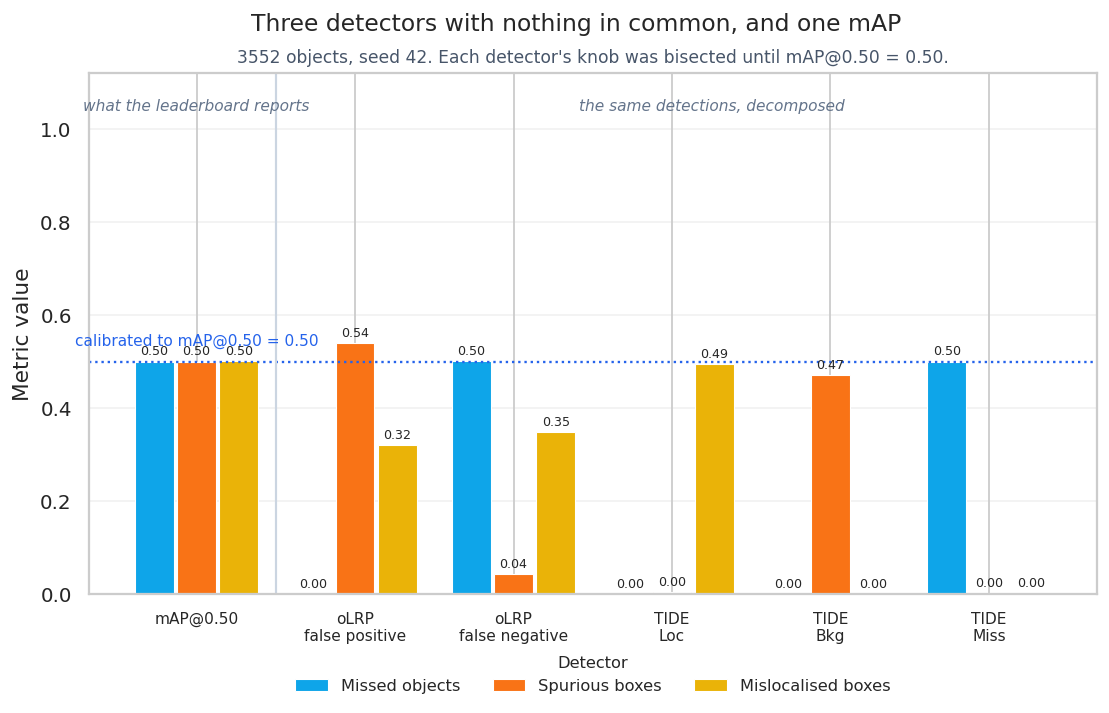
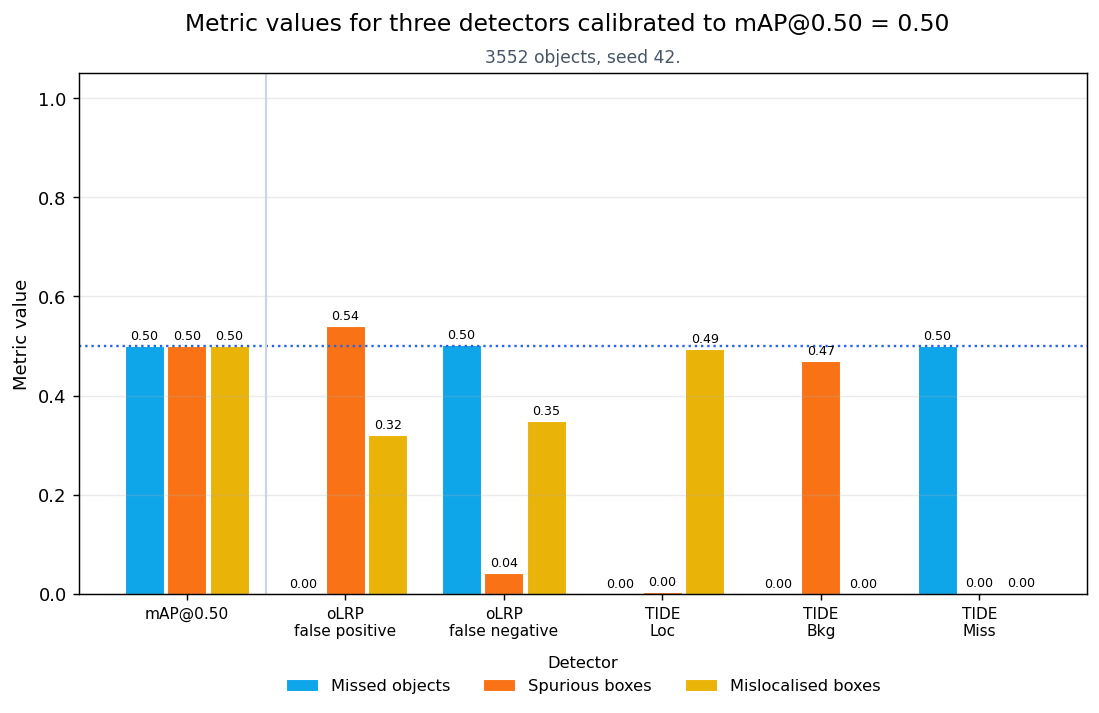
Rework experiment 1

diff --git a/src/mapstudy/visualization.py b/src/mapstudy/visualization.py
@@ -300,44 +300,19 @@ def plot_equivalence(
         )
         ax.bar_label(bars, fmt="%.2f", fontsize=7, padding=2)
 
-    # The dotted line is the calibration itself: the first group sits on it exactly.
+    # The calibration level. The title names it, so the line carries no label of its own.
     ax.axhline(target_map, color="#2563eb", linestyle=":", linewidth=1.3)
-    ax.annotate(
-        f"calibrated to mAP@0.50 = {target_map:.2f}",
-        xy=(positions[0], target_map),
-        xytext=(0, 9),
-        textcoords="offset points",
-        ha="center",
-        fontsize=8.5,
-        color="#2563eb",
-    )
 
-    # A divider between what mAP sees and what the decomposed metrics see.
+    # Separates the calibrated metric from the decomposed ones; the axis labels name both.
     ax.axvline(0.5, color="#cbd5e1", linewidth=1.2)
-    ax.annotate(
-        "what the leaderboard reports",
-        xy=(0, 1.04),
-        ha="center",
-        fontsize=8.5,
-        color="#64748b",
-        style="italic",
-    )
-    ax.annotate(
-        "the same detections, decomposed",
-        xy=((len(EQUIVALENCE_PANELS) + 0.5) / 2, 1.04),
-        ha="center",
-        fontsize=8.5,
-        color="#64748b",
-        style="italic",
-    )
 
     ax.set_xticks(positions)
     ax.set_xticklabels([label for label, _, _ in EQUIVALENCE_PANELS], fontsize=8.5)
-    ax.set(ylabel="Metric value", ylim=(0, 1.12))
+    ax.set(ylabel="Metric value", ylim=(0, 1.05))
     ax.set_title(subtitle, fontsize=9.5, color="#475569")
     fig.suptitle(title, fontsize=13, y=0.97)
     ax.grid(alpha=0.25, axis="y")
-    # Below the axes: the top of the figure carries the two region labels instead.
+    # Below the axes, so the bars keep the full height of the plotting area.
     ax.legend(
         loc="upper center",
         bbox_to_anchor=(0.5, -0.09),

diff --git a/src/mapstudy/cli.py b/src/mapstudy/cli.py
@@ -199,11 +199,9 @@ def equivalence_command(args: argparse.Namespace) -> None:
         plot_equivalence(
             members,
             target_map=args.target_map,
-            title="Three detectors with nothing in common, and one mAP",
-            subtitle=(
-                f"{payload['n_objects']} objects, seed {args.seed}. Each detector's knob was "
-                f"bisected until mAP@0.50 = {args.target_map:.2f}."
-            ),
+            title=f"Metric values for three detectors calibrated to mAP@0.50 = {args.target_map:.2f}",
+            # The title states the calibration, so the subtitle carries only the sample.
+            subtitle=f"{payload['n_objects']} objects, seed {args.seed}.",
             output=figure,
         )
     )

diff --git a/README.md b/README.md
@@ -120,21 +120,34 @@ first 1,000 images (7,538 objects), as do the two figures above.
 
 ## 1. mAP cannot distinguish detectors that fail in opposite ways
 
-![Three detectors, one mAP](docs/figures/equivalence.png)
+![Metric values for three detectors calibrated to the same mAP](docs/figures/equivalence.png)
 
 The opening showed two detectors whose scores are misleading. This experiment shows the
 structural reason: many different detectors share one score, so the score cannot be read
 backwards.
 
-Three detectors are constructed, each committing exactly one kind of error and no other.
-Every box meant to be correct is the ground-truth box itself, so localisation noise
-cannot contaminate the comparison. Each has one knob, and each knob is bisected until
-mAP@0.50 lands on 0.500.
+Three detectors are constructed on the same 3,552 objects. Each commits exactly one of
+the three error types and none of the others:
+
+- **Missed objects.** Reports a subset of the objects and nothing else. Every box it
+  emits is the ground-truth box itself, so it never produces a false positive; its only
+  error is the objects it leaves out.
+- **Spurious boxes.** Reports every object exactly, then adds boxes placed three
+  box-widths away, overlapping nothing. It never misses an object and never misplaces
+  one; its only error is the boxes it adds.
+- **Mislocalised boxes.** Reports every object, but displaces a fraction of its boxes by
+  20% of their size, which puts them at IoU 0.471 and below the matching threshold. It
+  adds no box and omits no object; its only error is where the boxes sit.
+
+Emitting the ground-truth box itself wherever a box is meant to be correct keeps
+localisation noise out of the comparison: the mislocalised detector is the only one whose
+boxes are not exact. Each detector has a single parameter governing how often it commits
+its error, and that parameter is bisected until mAP@0.50 reaches 0.500.
 
 | | Missed objects | Spurious boxes | Mislocalised boxes |
 |---|---:|---:|---:|
-| What it does | reports 51.7% of objects, every box exact | reports every object, plus 1.40 spurious boxes each | reports every object, 35.4% of boxes below IoU 0.5 |
-| Knob solved for | `detect_rate` = 0.4990 | `ghost_rate` = 1.4023 | `error_rate` = 0.3457 |
+| Parameter solved for | `detect_rate` = 0.4990 | `ghost_rate` = 1.4023 | `error_rate` = 0.3457 |
+| Proportion affected | 48.3% of objects omitted | 1.40 extra boxes per object | 35.4% of boxes displaced |
 | Detections emitted | 1,837 | 8,533 | 3,552 |
 | Precision at score ≥ 0.05 | **1.000** | **0.416** | **0.646** |
 | Recall at score ≥ 0.05 | **0.517** | **1.000** | **0.646** |
@@ -146,20 +159,16 @@ neither. mAP@0.50 separates them by **0.0004** and mAP@[.50:.95] by **0.0026**. 
 over ten IoU thresholds does not help, because the thing being averaged is the same
 thing ten times.
 
-This is not a claim that mAP is sometimes misleading. It is the statement that mAP is
-**not injective**: the map from detector behaviour to score cannot be inverted, and a
-leaderboard position is therefore compatible with any of these three detectors. Which one
-was shipped is not recoverable from the number.
+The mapping from detector behaviour to score is therefore **not injective**. A given
+leaderboard position is compatible with all three detectors, and the number alone does
+not determine which one produced it.
 
-The practical consequence is the one that matters. Told only that a detector scores
-0.500, a practitioner cannot know whether to work on recall, on precision or on box
-regression - the three would be entirely different projects, and mAP gives no evidence
-for choosing between them. This is what is meant here by saying that mAP carries no
-information: not that the number is wrong, but that it is only a number, and that the
-question a practitioner actually has when a score is low - where does the loss come
-from, and what should change - is one mAP is not built to answer. Oksuz et al. list this
-first among AP's shortcomings: the *"inability to distinguish very different RP
-curves"* [6].
+This has a direct practical cost. Told only that a detector scores 0.500, a practitioner
+cannot determine whether to work on recall, on precision or on box regression, and those
+are three different projects. The score locates the detector on a scale without
+identifying what limits it, which is the sense in which mAP carries no information for
+the decision that normally follows a measurement. Oksuz et al. list this first among AP's
+shortcomings: the *"inability to distinguish very different RP curves"* [6].
 
 The reference illustration of the problem is Fig. 1 of the LRP paper, where three
 sketched detectors all reach AP = 0.5: *"Despite these very different characteristics,
